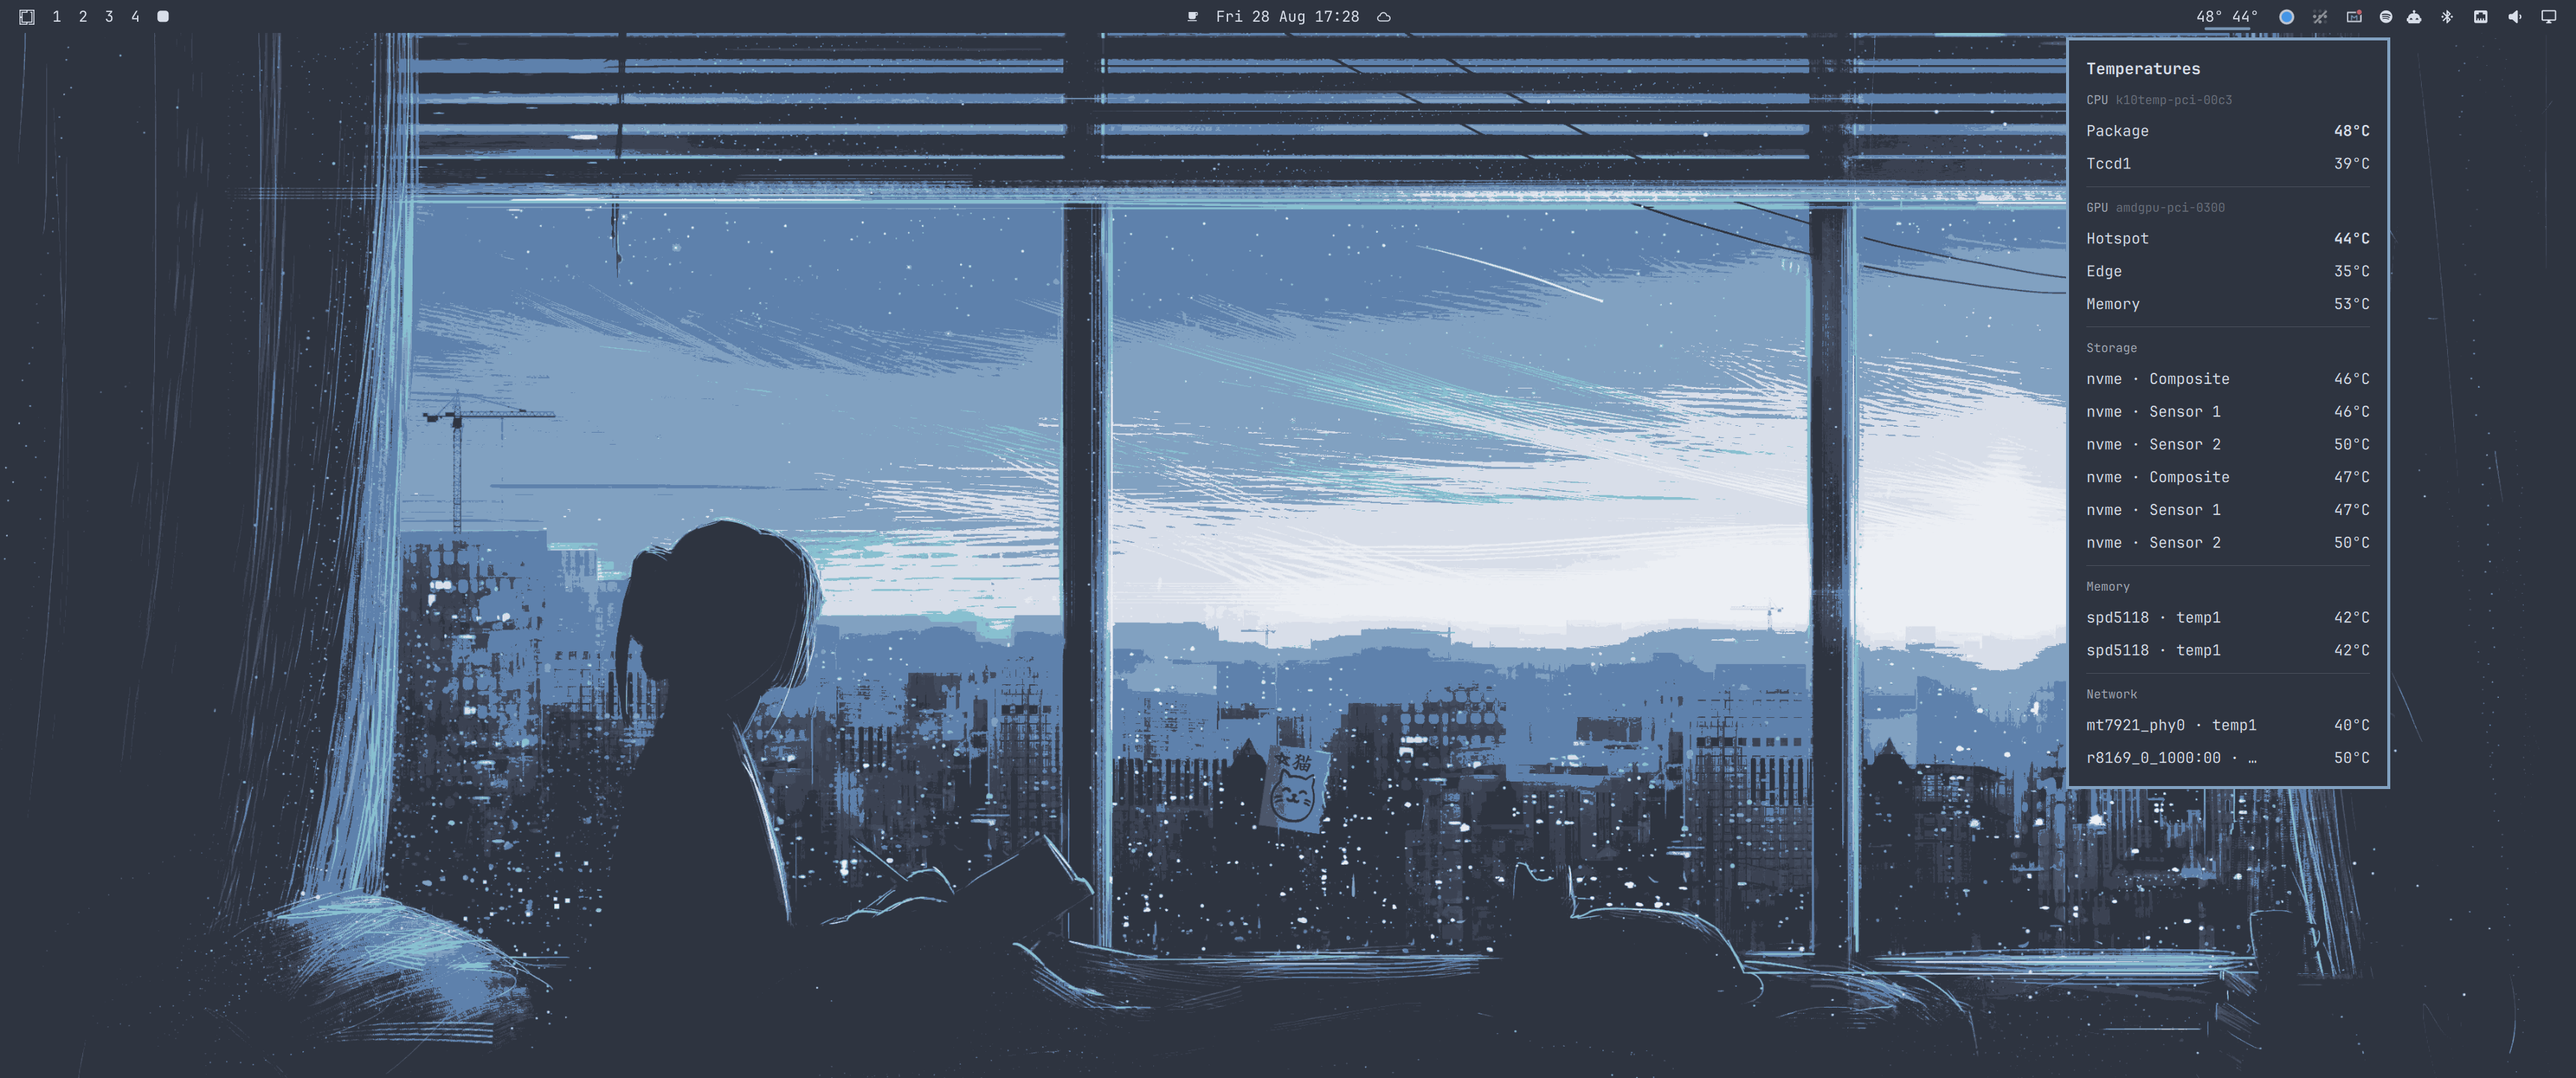
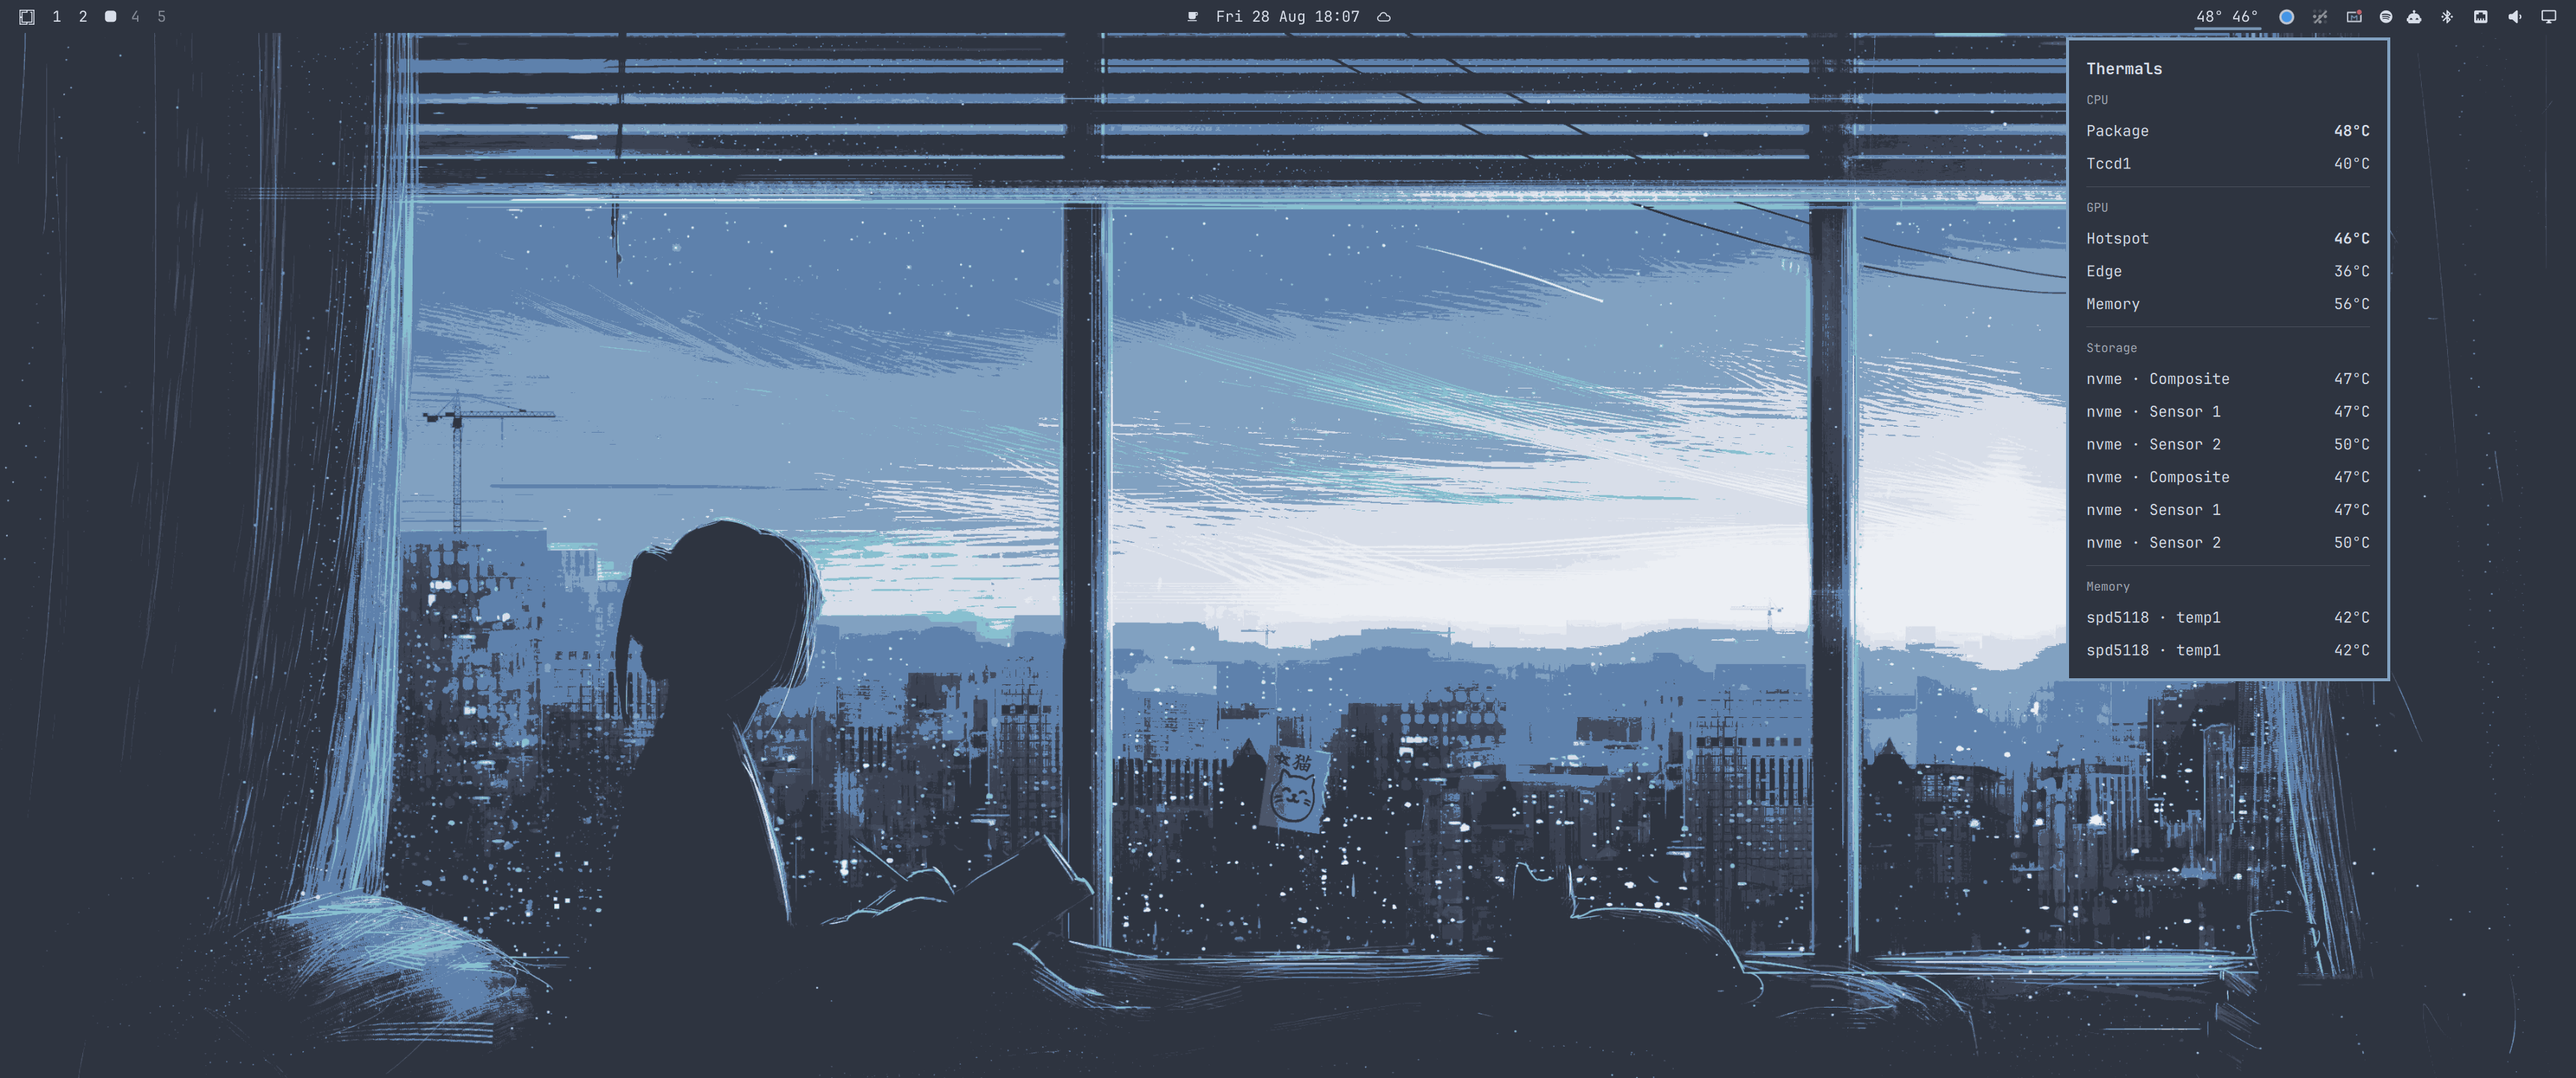
Refine panel: rename to Thermals, drop chip subtitles and network sensors
- Rename panel title "Temperatures" -> "Thermals"
- Widen the open-panel underline to span both bar temperature values
- Remove chip-name subtitles from CPU/GPU section headers
- Drop network-adapter sensors (noise, not signal)
- Update screenshot; bump to 1.1.0

Changed region(s): [[0.7776, 0.625, 0.9331, 0.75], [0.8087, 0.0625, 0.8709, 0.0938]]

diff --git a/Panel.qml b/Panel.qml
@@ -29,7 +29,7 @@ Panel {
   function groupedRows() {
     var rows = (root.hostWidget && root.hostWidget.detailRows)
       ? root.hostWidget.detailRows : []
-    var order = ["CPU", "GPU", "Storage", "Memory", "Motherboard", "Network", "Other"]
+    var order = ["CPU", "GPU", "Storage", "Memory", "Motherboard", "Other"]
     var byGroup = {}
     for (var i = 0; i < rows.length; i++) {
       var g = rows[i].group
@@ -72,7 +72,7 @@ Panel {
         // ---- Title ----
         Text {
           width: parent.width
-          text: "Temperatures"
+          text: "Thermals"
           color: root.barForeground
           font.family: root.bar ? root.bar.fontFamily : Style.font.family
           font.pixelSize: Style.font.subtitle
@@ -80,7 +80,7 @@ Panel {
         }
 
         // ---------------------------------------------------------- CPU
-        SectionHeader { title: "CPU"; sub: root.hostWidget ? root.hostWidget.cpuChip : "" }
+        SectionHeader { title: "CPU" }
 
         TempRow {
           label: "Package"
@@ -105,7 +105,7 @@ Panel {
         Divider {}
 
         // ---------------------------------------------------------- GPU
-        SectionHeader { title: "GPU"; sub: root.hostWidget ? root.hostWidget.gpuChip : "" }
+        SectionHeader { title: "GPU" }
 
         Repeater {
           model: [
@@ -150,22 +150,12 @@ Panel {
   // ------------------------------------------------------------ components
   component SectionHeader : Row {
     property string title: ""
-    property string sub: ""
     width: content.width
     spacing: Style.space(6)
     Text {
       text: parent.title
       color: root.barForeground
       opacity: 0.7
-      font.family: root.bar ? root.bar.fontFamily : Style.font.family
-      font.pixelSize: Style.font.caption
-    }
-    Text {
-      text: parent.sub
-      color: root.barForeground
-      opacity: 0.35
-      elide: Text.ElideRight
-      width: Math.max(0, parent.width - Style.space(60))
       font.family: root.bar ? root.bar.fontFamily : Style.font.family
       font.pixelSize: Style.font.caption
     }

diff --git a/BarWidget.qml b/BarWidget.qml
@@ -1,6 +1,7 @@
 import QtQuick
 import Quickshell
 import Quickshell.Io
+import qs.Commons
 import qs.Ui
 
 BarWidget {
@@ -55,6 +56,11 @@ BarWidget {
 
   implicitWidth: button.implicitWidth
   implicitHeight: button.implicitHeight
+
+  // Widen the open-panel underline to span both temperature values, rather
+  // than the bar's default 55%-of-slot mark which is too short for our label.
+  readonly property real openPanelIndicatorWidth:
+    (button.labelWidth > 0 ? button.labelWidth : button.implicitWidth) + Style.space(4)
 
   onBarChanged: injectPanel()
 
@@ -168,15 +174,16 @@ BarWidget {
       }
 
       // ------------------------------------------------ everything else
-      // NVMe drives, motherboard, RAM, chipset, NIC — surface them all in
-      // the panel under a friendly group so nothing useful is thrown away.
+      // NVMe drives, motherboard, RAM, chipset — surface them all in the
+      // panel under a friendly group so nothing useful is thrown away.
+      // (Network-adapter sensors are dropped; they add noise, not signal.)
       else {
         var group = "Other"
         if (chip.indexOf("nvme") === 0) group = "Storage"
         else if (chip.indexOf("drivetemp") === 0) group = "Storage"
         else if (chip.indexOf("spd5118") === 0 || chip.indexOf("jc42") === 0) group = "Memory"
         else if (chip.indexOf("mt7921") === 0 || chip.indexOf("iwlwifi") === 0
-                 || chip.indexOf("r8169") === 0) group = "Network"
+                 || chip.indexOf("r8169") === 0) continue  // network sensors are noise
         else if (chip.indexOf("nct") === 0 || chip.indexOf("it87") === 0) group = "Motherboard"
 
         for (var ok in block) {

diff --git a/CHANGELOG.md b/CHANGELOG.md
@@ -5,6 +5,20 @@ All notable changes to this project will be documented in this file.
 The format is based on [Keep a Changelog](https://keepachangelog.com/en/1.1.0/),
 and this project adheres to [Semantic Versioning](https://semver.org/spec/v2.0.0.html).
 
+## [1.1.0]
+
+### Changed
+
+- Renamed the detail panel title from "Temperatures" to "Thermals".
+- Widened the bar's open-panel underline so it spans both temperature values.
+- Removed the chip-name subtitles (e.g. `k10temp-pci-00c3`) from the CPU and
+  GPU panel section headers.
+
+### Removed
+
+- Network-adapter temperature sensors are no longer shown; they added noise
+  without useful signal.
+
 ## [1.0.0]
 
 ### Added
